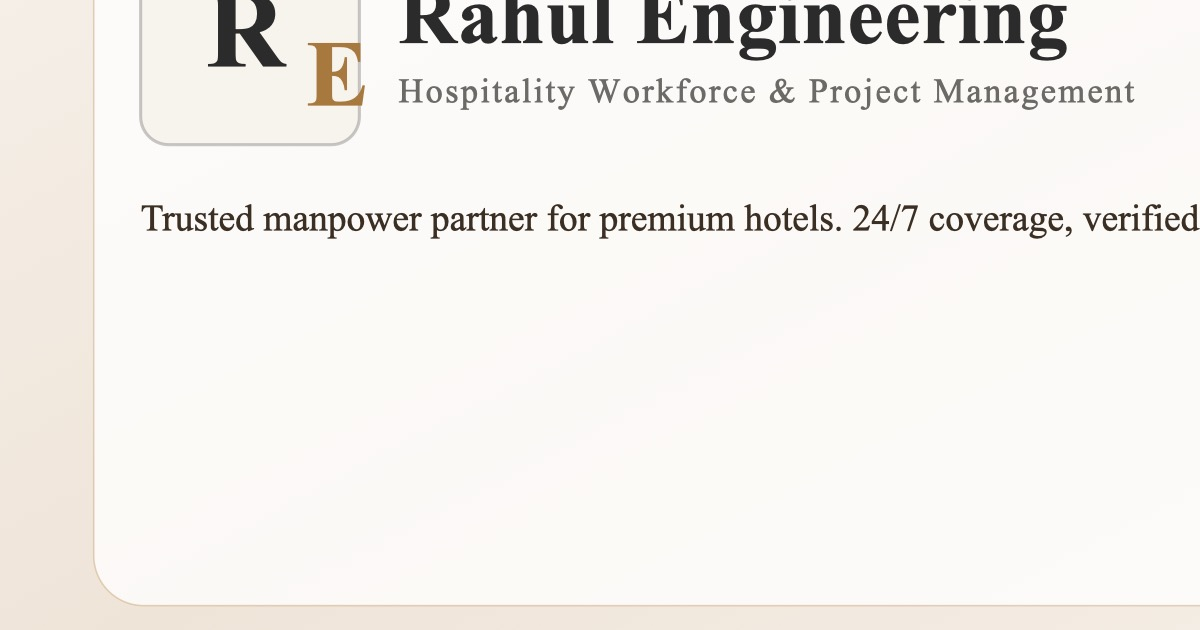
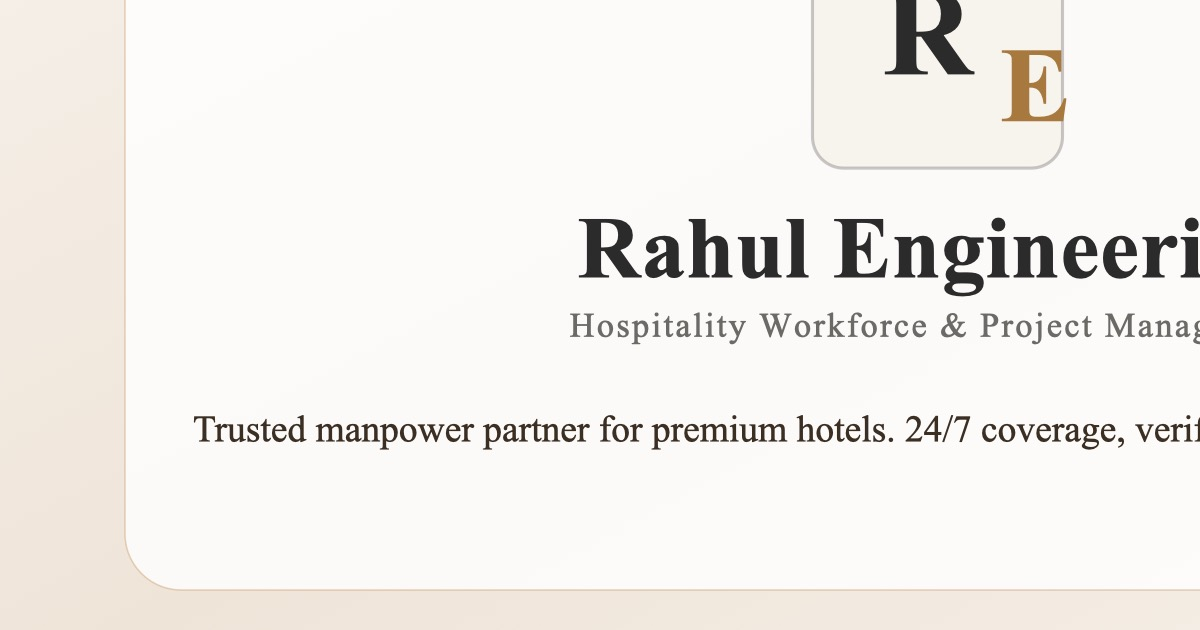
Rebuild OG image layout

diff --git a/app/head.js b/app/head.js
@@ -11,11 +11,11 @@ export default function Head() {
       <meta property="og:site_name" content="Rahul Engineering" />
       <meta
         property="og:image"
-        content="https://www.rahulengineerings.com/og.jpg?v=4"
+        content="https://www.rahulengineerings.com/og.jpg?v=5"
       />
       <meta
         property="og:image:secure_url"
-        content="https://www.rahulengineerings.com/og.jpg?v=4"
+        content="https://www.rahulengineerings.com/og.jpg?v=5"
       />
       <meta property="og:image:type" content="image/jpeg" />
       <meta property="og:image:width" content="1200" />
@@ -26,7 +26,7 @@ export default function Head() {
       <meta name="twitter:description" content={description} />
       <meta
         name="twitter:image"
-        content="https://www.rahulengineerings.com/og.jpg?v=4"
+        content="https://www.rahulengineerings.com/og.jpg?v=5"
       />
       <link rel="canonical" href="https://www.rahulengineerings.com" />
     </>

diff --git a/app/layout.js b/app/layout.js
@@ -16,7 +16,7 @@ export const metadata = {
     type: "website",
     images: [
       {
-        url: "https://www.rahulengineerings.com/og.jpg?v=4",
+        url: "https://www.rahulengineerings.com/og.jpg?v=5",
         width: 1200,
         height: 630,
         alt: "Rahul Engineering"
@@ -27,7 +27,7 @@ export const metadata = {
     card: "summary_large_image",
     title: "Rahul Engineering",
     description,
-    images: ["https://www.rahulengineerings.com/og.jpg?v=4"]
+    images: ["https://www.rahulengineerings.com/og.jpg?v=5"]
   }
 };
 
